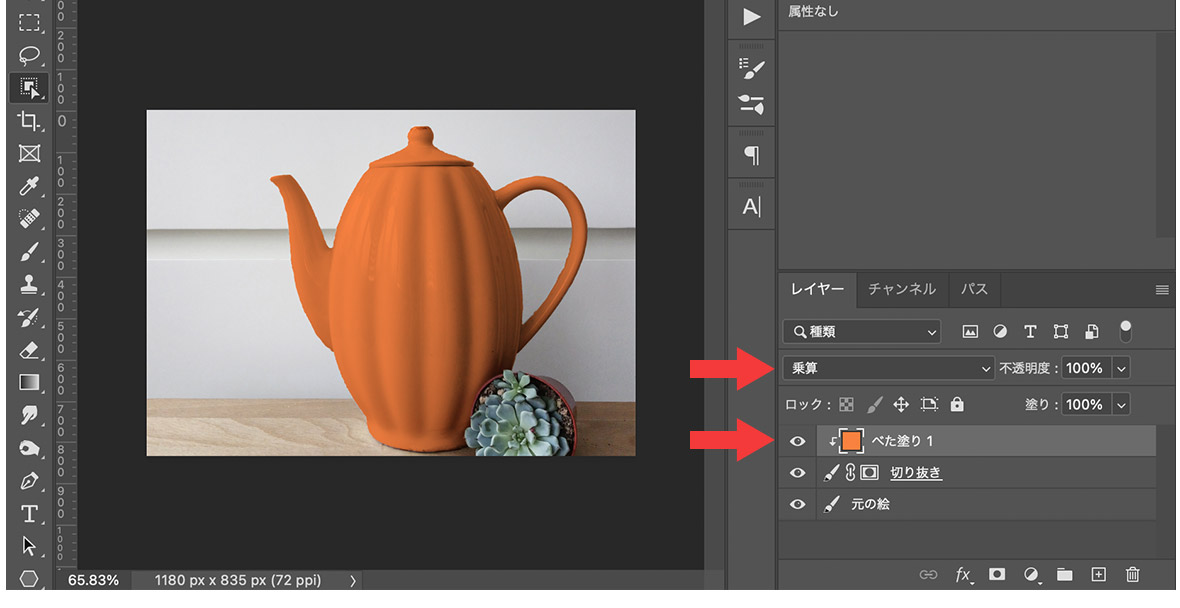
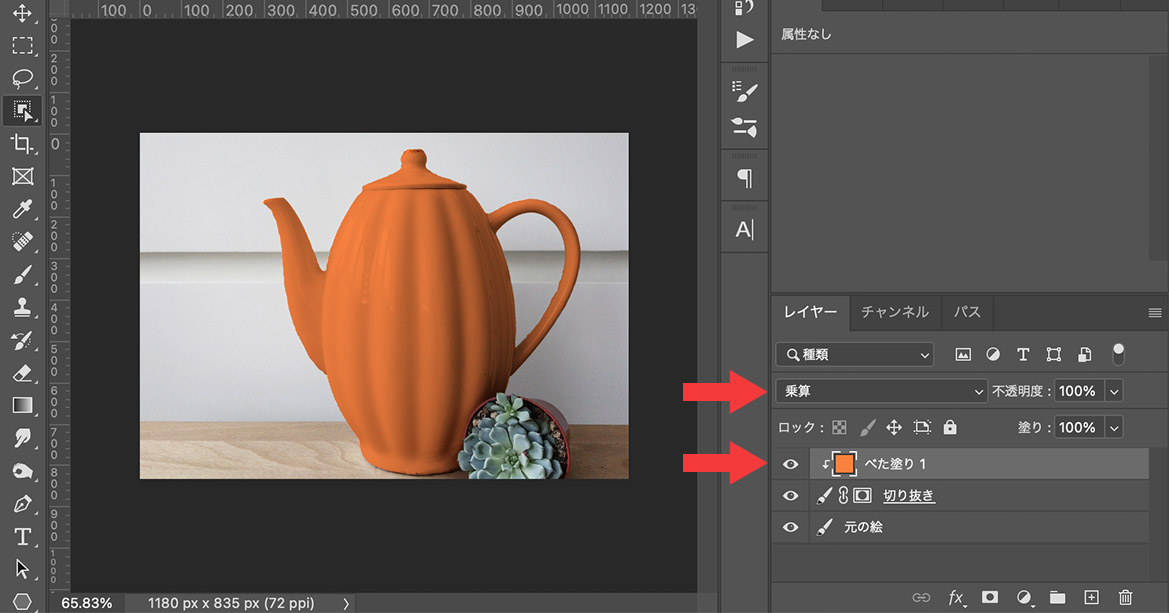
乗算追加

Changed region(s): [[0.0, 0.0, 1.0, 1.0], [0.8623, 0.4375, 0.8931, 0.4688]]

diff --git a/retouch/photoshop/multiplication/index.html b/retouch/photoshop/multiplication/index.html
@@ -28,25 +28,26 @@
 
     <div id="mv">
       <h1 class="mv_txt">乗算</h1>
-      <p class="mv_txt-lead">まずはここを抑えよう！</p>
+      <p class="mv_txt-lead">乗算の使い方を実例で紹介</p>
     </div>
 
     <div class="wrap">
 
       <div id="contents">
-        <figure class="page_mv"><img src="../img/layout/mv.jpg" alt="page_main"></figure>
+        <figure class="page_mv"><img src="./img/mv.jpg" alt="page_main"></figure>
         <div class="page_date">
-          <time itemprop="dateModified" content="2022/2/7">2022/2/7</time>
+          <time itemprop="dateModified" content="2022/2/7">2022/3/3</time>
         </div>
         <div class="page_index">
           <p class="page_index_ttl">目次</p>
           <ul class="page_index_list">
-            <li class="page_index_item"><a href="#section1">1、レイアウトの４大原則</a></li>
-            <li class="page_index_item"><a href="#section2">2、近接</a></li>
-            <li class="page_index_item"><a href="#section3">3、整列</a></li>
-            <li class="page_index_item"><a href="#section4">4、コントラスト（強弱）</a></li>
-            <li class="page_index_item"><a href="#section5">5、反復</a></li>
-            <li class="page_index_item"><a href="#section6">6、まとめ</a></li>
+            <li class="page_index_item"><a href="#section1">1、乗算のポイント</a></li>
+            <li class="page_index_item"><a href="#section2">2、【例&#9312;】真っ黒の被写体の白背景にのみ色入れる</a></li>
+            <li class="page_index_item"><a href="#section3">3、【例&#9313;】白いものに色を加える</a></li>
+            <li class="page_index_item"><a href="#section4">4、【例&#9314;】テクスチャを反映させる</a></li>
+            <li class="page_index_item"><a href="#section5">5、【例&#9315;】線が黒いイラストを配置する</a></li>
+            <li class="page_index_item"><a href="#section6">6、【例&#9316;】周辺光量を補正する</a></li>
+            <li class="page_index_item"><a href="#section7">7、まとめ</a></li>
           </ul>
         </div>
         <section class="page_section" id="section1">
@@ -55,26 +56,33 @@
             描画モードのひとつ、「乗算」を見ていきます。<br>
             乗算のポイントは以下の2点。
           </p>
-          <ul class="page_box">
+          <ul class="page_box point">
             <li>&#9312;黒は残って白は消える<br class="dNoPc">（影が残って光が消えるイメージ）</li>
             <li>&#9313;他は混ざって暗くなる</li>
           </ul>
           <p class="page_txt">
-            細かな原理の部分は割愛します。実際に使用例を見ていきましょう。
+            詳しい原理を一旦置いておいて、すごく簡単にいうとこんなイメージです。
+            実際に使用例を見ていきましょう。
           </p>
         </section>
         <section class="page_section" id="section2">
           <h2 class="page_ttl">2、【例&#9312;】真っ黒の被写体の白背景にのみ色入れる</h2>
           <p class="page_txt">
-            細かな原理の部分は割愛します。実際に使用例を見ていきましょう。
+            基本色のレイヤーはこちら。<span class="color">下</span>に重ねます。
           </p>
-          <p class="page_txt">基本色のレイヤーはこちら</p>
           <figure class="page_figure"><img src="./img/img1.jpg" alt=""></figure>
-          <p class="page_txt">合成色のレイヤーはこちら</p>
+          <p class="page_txt">
+            合成色のレイヤーはこちら。<span class="color">上</span>に重ね、乗算をかけます。
+          </p>
           <figure class="page_figure"><img src="./img/img2.jpg" alt=""></figure>
-          <p class="page_txt">結果ははこちら</p>
+          <p class="page_txt">
+            結果ははこちら。<br>
+            枝背景の白い部分が透過し、背景の空が反映されました。
+          </p>
           <figure class="page_figure"><img src="./img/img3.jpg" alt=""></figure>
-          <p class="page_txt">合成色のレイヤーを上に置き、乗算をかけます。</p>
+          <p class="page_txt">
+            Photoshop内のレイヤーの様子はこちら。
+          </p>
           <figure class="page_figure"><img src="./img/img4.jpg" alt=""></figure>
           <p class="page_txt">
             グレー部分に色は入ってしまうので、白黒写真はうまくいきません。
@@ -83,42 +91,92 @@
         </section>
         <section class="page_section" id="section3">
           <h2 class="page_ttl">3、【例&#9313;】白いものに色を加える</h2>
-          <p class="page_txt">基本色のレイヤーはこちら</p>
+          <p class="page_txt">基本色のレイヤーはこちら。</p>
           <figure class="page_figure"><img src="./img/img5.jpg" alt=""></figure>
-          <p class="page_txt">色を付けたい部分だけ切り抜きます</p>
+          <p class="page_txt">色を付けたい部分だけ切り抜きます。今回はポットに色を反映させてみます。</p>
           <figure class="page_figure"><img src="./img/img6.jpg" alt=""></figure>
           <p class="page_txt">
-            今回はオレンジにしたいと思います。<br>
-            オレンジのべた塗りを乗算かけます。結果はこちら
+            ポットをオレンジにしてみましょう。<br>
+            オレンジのべた塗りレイヤーを作成し、切り抜きレイヤーにクリッピングマスクをし、乗算かけます。結果はこちら。
           </p>
           <figure class="page_figure"><img src="./img/img7.jpg" alt=""></figure>
-          <p class="page_txt">切り抜きレイヤーにだけ色をつけたいので、クリッピングマスクをして、乗算をかけます。
+          <p class="page_txt">
+            クリッピングマスクで、切り抜きレイヤーにだけ色を反映させることができます。<br>
+            影の部分も程よく合成されています。
           </p>
           <figure class="page_figure"><img src="./img/img8.jpg" alt=""></figure>
 
         </section>
         <section class="page_section" id="section4">
-          <h2 class="page_ttl">4、コントラスト（強弱）</h2>
-          <p class="page_txt">続けて3つ目の原則<span class="bold">「コントラスト」</span>を適用してみましょう。</p>
-          <figure class="page_figure"><img src="../img/layout/img4.png" alt=""></figure>
-          <p class="page_txt">タイトルのフォントを太字で大きく、文字とボタンをそれぞれ小さくしました。<br>
-            タイトルが強調されたので、パッと何の情報か分かりやすくなりました。全ての文章に目を通さなくても、<span class="color">一瞬で要点を掴める</span>ようになります。</p>
+          <h2 class="page_ttl">4、【例&#9314;】テクスチャを反映させる</h2>
+          <p class="page_txt">
+            文字にひび割れのテクスチャを反映させてみましょう。<br>
+            まず基本色レイヤーとなる文字を入力します。
+          </p>
+          <figure class="page_figure"><img src="./img/img4-1.jpg" alt=""></figure>
+          <p class="page_txt">
+            上に合成色となる、ひび割れのレイヤーをのせます。<br>
+            <span class="bold">背景が白地、テクスチャ部分が黒のもの</span>を選びます。<br>
+            文字レイヤーにクリッピングマスクし、乗算をかけます。
+          </p>
+          <figure class="page_figure"><img src="./img/img4-2.jpg" alt=""></figure>
+          <p class="page_txt">
+          </p>
+          <p class="page_txt">
+            結果はこちら。
+          </p>
+          <figure class="page_figure"><img src="./img/img4-3.jpg" alt=""></figure>
+          <p class="page_txt">
+            Photoshop内のレイヤーの様子はこちら。<br>
+            背景の白が透過し、黒のテクスチャの部分のみが反映されました。
+          </p>
+          <figure class="page_figure"><img src="./img/img4-4.jpg" alt=""></figure>
         </section>
         <section class="page_section" id="section5">
-          <h2 class="page_ttl">5、反復</h2>
-          <p class="page_txt">最後に4つ目の原則<span class="bold">「反復」</span>を適用してみましょう。<br>反復とは<span
-              class="color">要素ごとに決まったデザインを繰り返すこと</span>です。</p>
-          <figure class="page_figure"><img src="../img/layout/img5.png" alt=""></figure>
-          <p class="page_txt">一緒にイメージも追加し、さらに視覚的に情報を把握しやすくなりました。<br>(画像自体ももう少し統一感があると更に統一感が出ますが...)<br>
-            タイトルにはアンダーラインを、ボタンの背景や文字色などのデザインも統一しました。<br>
-            同じデザインを繰り返し適用すことで、何の情報か<span class="color">文章を読む前に感覚的に理解</span>することができます。
+          <h2 class="page_ttl">5、【例&#9315;】線が黒いイラストを配置する</h2>
+          <p class="page_txt">
+            背景が透過していないイラストも白背景で黒い線であれば、乗算で簡単に入れ込む事ができます。<br>
           </p>
+          <figure class="page_figure"><img src="./img/img5-1.jpg" alt=""></figure>
+          <p class="page_txt">
+            イラストをいれたい写真の上に、イラストのレイヤーを重ねます。<br>
+            イラストレイヤーに乗算をかけます。
+          </p>
+          <figure class="page_figure"><img src="./img/img5-2.jpg" alt=""></figure>
+          <p class="page_txt">
+            結果はこちら。<br>
+            簡単に背景を透過してくれました。<br>
+            ちなみに、カラフルなイラストでも背景が白に近ければ比較的自然に合成できます。
+          </p>
+          <figure class="page_figure"><img src="./img/img5-3.jpg" alt=""></figure>
         </section>
         <section class="page_section" id="section6">
-          <h2 class="page_ttl">6、まとめ</h2>
-          <p class="page_txt">以上、今回は<span class="bold">「近接」「整列」「コントラスト（強弱）」「反復」</span>をご紹介しました。<br>
-            たったこれだけ知っているだけで、一気に素人っぽさから脱出できます！<br>
-            自分のデザインが、何か見づらいなと思ったら、この4つの原則を思い出して、見直してみてくださいね！
+          <h2 class="page_ttl">6、【例&#9316;】周辺光量を補正する</h2>
+          <p class="page_txt">
+            写真の周辺の光量を落とし、レトロに加工してみます。<br>
+            元の写真はこちら。
+          </p>
+          <figure class="page_figure"><img src="./img/img6-1.jpg" alt=""></figure>
+          <p class="page_txt">
+            合成色のレイヤーを作成します。
+            新規でレイヤーを作成し、グラデーションツールで中心から周辺に向けて黒くなるグラデーションを作成します。
+          </p>
+          <figure class="page_figure"><img src="./img/img6-2.jpg" alt=""></figure>
+          <p class="page_txt">
+            グラデーションのレイヤーを写真の上にもってきて、乗算をかけます。<br>
+            結果はこちら。
+          </p>
+          <figure class="page_figure"><img src="./img/img6-3.jpg" alt=""></figure>
+          <p class="page_txt">
+            被写体が際立つような雰囲気のある写真加工が一瞬でできました。<br>
+            影が濃すぎると思ったら、グラデーションのレイヤーの不透明度を少し下げると、自然に馴染みます。
+          </p>
+        </section>
+        <section class="page_section" id="section7">
+          <h2 class="page_ttl">7、まとめ</h2>
+          <p class="page_txt">
+            乗算の簡単な実用例をみていきました。<br>
+            次は乗算の逆、スクリーンを見ていきます！
           </p>
         </section>
 

diff --git a/index.html b/index.html
@@ -30,9 +30,17 @@
           <p class="topics">TOPICS</p>
           <ul class="list-item">
             <li class="item">
+              <a href="./retouch/photoshop/multiplication/">
+                <figure class="item-figure"><img src="./retouch/photoshop/img/multiplication.jpg" alt=""></figure>
+                <p class="item-ttl">乗算</p>
+                <p class="item-txt">乗算の使い方を実例で紹介</p>
+                <p class="item-date">2022/3/3</p>
+              </a>
+            </li>
+            <li class="item">
               <a href="./design/basics/layout/">
                 <figure class="item-figure"><img src="./design/basics/img/layout.jpg" alt=""></figure>
-                <p class="item-ttl">レイアウトの4原則</p>
+                <p class="item-ttl">レイアウトの4原則test</p>
                 <p class="item-txt">デザインの第一歩</p>
                 <p class="item-date">2022/2/7</p>
               </a>
@@ -53,13 +61,6 @@
                 <p class="item-date">2022/2/16</p>
               </a>
             </li>
-            <!-- <li class="item">
-              <a href="">
-                <figure class="item-figure"><img src="./img/img.png" alt=""></figure>
-                <p class="item-ttl">Photoshop使い方</p>
-                <p class="item-txt">フォントの勉強　フォントの勉強フォントの勉強フォントの勉強フォントの勉強フォントの勉強</p>
-              </a>
-            </li> -->
           </ul>
         </div>
       </div>

diff --git a/retouch/css/index.css b/retouch/css/index.css
@@ -78,41 +78,3 @@ mv
     font-size: 14px;
   }
 }
-
-/*---------------------------------------------
-layout
----------------------------------------------*/
-#layout .page_figure {
-  background: #fff;
-  padding: 15px;
-}
-@media screen and (min-width: 767px) {
-  #layout .page_figure {
-    padding: 20px;
-  }
-}
-
-/*---------------------------------------------
-copyright
----------------------------------------------*/
-#copyright .page_box {
-  padding-bottom: 10px;
-}
-#copyright .page_box li {
-  margin-bottom: 10px;
-}
-/*---------------------------------------------
-font
----------------------------------------------*/
-.rome .page_box_ttl {
-  color: #ab4545;
-}
-.jp .page_box_ttl {
-  color: #3c72ab;
-}
-.rome.page_box {
-  background: #fff1f1;
-}
-.jp.page_box {
-  background: #ebeff9;
-}

diff --git a/css/common.css b/css/common.css
@@ -334,6 +334,22 @@ h4.page_ttl-sub2 {
 .page_box li:last-child {
   margin-bottom: 15px;
 }
+.page_box.point {
+  background: #fef4f4;
+  border: 1px solid #000;
+  position: relative;
+}
+.page_box.point::before {
+  content: 'point';
+  position: absolute;
+  top: -15px;
+  left: -1px;
+  background: #ff6f6f;
+  color: #fff;
+  padding: 1px 10px 2px;
+  font-weight: bold;
+  letter-spacing: 0.06em;
+}
 span.color {
   color: #ff6f6f;
   font-weight: bold;
@@ -402,6 +418,10 @@ span.mkBL {
   }
   .page_box li:last-child {
     margin-bottom: 30px;
+  }
+  .page_box.point::before {
+    top: -10px;
+    left: -5px;
   }
 }
 @media screen and (max-width: 766px) {

diff --git a/retouch/photoshop/index.html b/retouch/photoshop/index.html
@@ -37,9 +37,9 @@
           <ul class="list-item">
             <li class="item">
               <a href="./multiplication/">
-                <figure class="item-figure"><img src="./img/layout.jpg" alt=""></figure>
+                <figure class="item-figure"><img src="./img/multiplication.jpg" alt=""></figure>
                 <p class="item-ttl">乗算</p>
-                <p class="item-txt">デザインの第一歩</p>
+                <p class="item-txt">乗算の使い方を実例で紹介</p>
               </a>
             </li>
             <!-- <li class="item">
